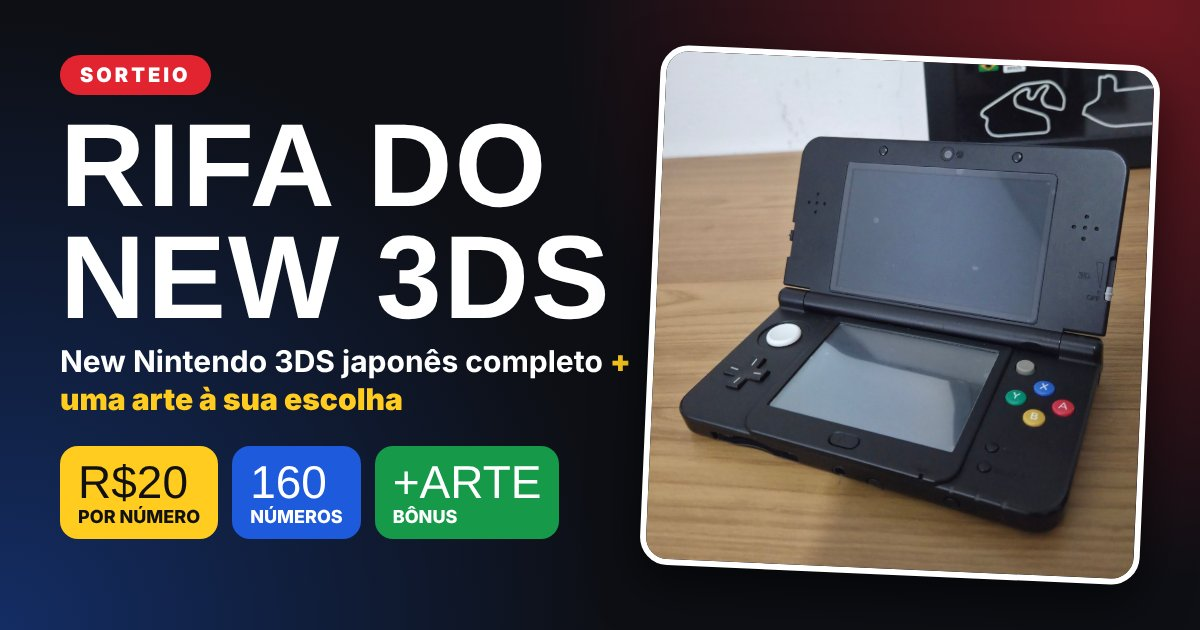
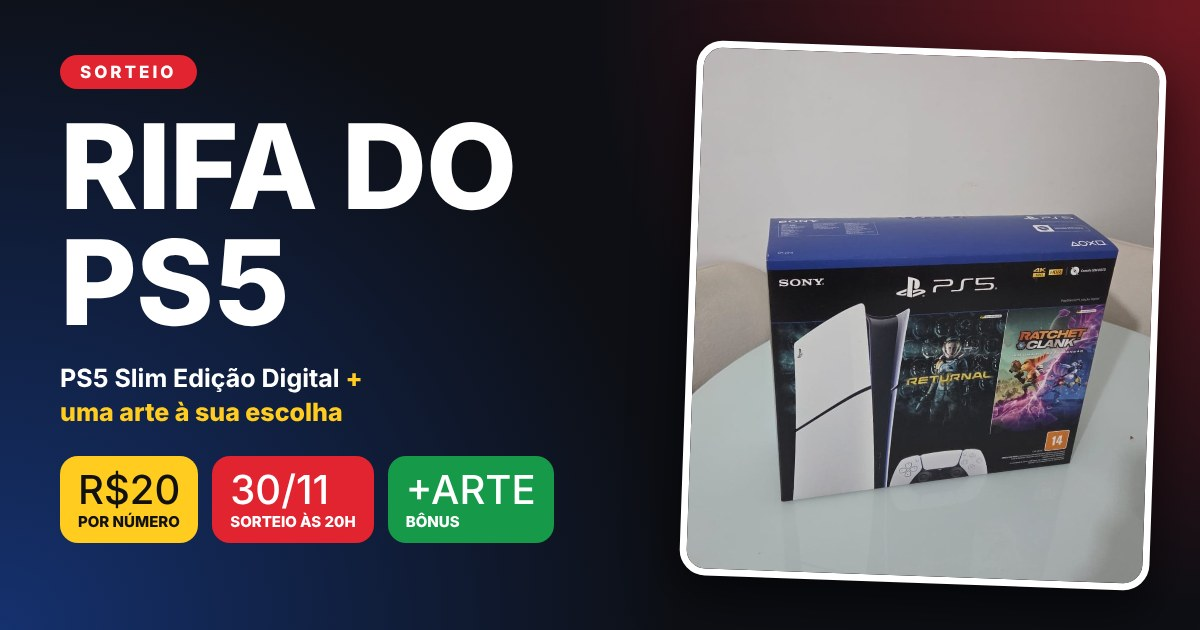
Troca o prêmio da rifa para PS5 Slim Edição Digital
Atualiza título, descrição e imagem de prévia do link, foto e textos do site.

Claude-Session: https://claude.ai/code/session_01CmqXNaatHckYqDa1Qydv76

diff --git a/index.html b/index.html
@@ -1,13 +1,13 @@
 <!DOCTYPE html>
 <html lang="pt-BR"><head>
 <meta charset="utf-8"><meta name="viewport" content="width=device-width,initial-scale=1">
-<title>Rifa do New Nintendo 3DS · R$20 por número</title>
-<meta name="description" content="Concorra a um New Nintendo 3DS japonês completo + uma arte à sua escolha. R$20 por número, 160 números.">
+<title>Rifa do PS5 · R$20 por número</title>
+<meta name="description" content="Concorra a um PS5 Slim Edição Digital + uma arte à sua escolha. R$20 por número. Sorteio 30/11 às 20h.">
 <meta property="og:type" content="website">
 <meta property="og:url" content="https://rifanew3ds.github.io/rifa-new3ds/">
-<meta property="og:title" content="Rifa do New Nintendo 3DS · R$20 por número">
-<meta property="og:description" content="New 3DS japonês completo + uma arte à sua escolha. 160 números. Escolha o seu!">
-<meta property="og:image" content="https://rifanew3ds.github.io/rifa-new3ds/preview.jpg">
+<meta property="og:title" content="Rifa do PS5 · R$20 por número">
+<meta property="og:description" content="PS5 Slim Edição Digital + uma arte à sua escolha. Sorteio 30/11 às 20h. Escolha o seu número!">
+<meta property="og:image" content="https://rifanew3ds.github.io/rifa-new3ds/preview.jpg?v=ps5">
 <meta property="og:image:width" content="1200"><meta property="og:image:height" content="630">
 <meta property="og:locale" content="pt_BR">
 <meta name="twitter:card" content="summary_large_image">
@@ -87,8 +87,8 @@ footer{padding:30px 0 50px;color:var(--muted);font-size:13px;text-align:center;b
 <header class="hero"><div class="wrap">
  <div>
   <span class="tag">SORTEIO</span>
-  <h1 class="display">RIFA DO<br>NEW 3DS</h1>
-  <p class="lead">Concorra a um <b>New Nintendo 3DS japonês preto</b> e ganhe também <b>uma arte de um dos artistas participantes, à sua escolha</b>.</p>
+  <h1 class="display">RIFA DO<br>PS5</h1>
+  <p class="lead">Concorra a um <b>PS5 Slim Edição Digital com controle DualSense</b> e ganhe também <b>uma arte de um dos artistas participantes, à sua escolha</b>.</p>
   <div class="stats">
    <div class="stat" style="background:var(--yellow);color:#111"><strong>R$20</strong><span>POR NÚMERO</span></div>
    <div class="stat" style="background:var(--blue)"><strong id="livres">160</strong><span>NÚMEROS LIVRES</span></div>
@@ -98,7 +98,7 @@ footer{padding:30px 0 50px;color:var(--muted);font-size:13px;text-align:center;b
   <a class="btn" id="grupoBtn" href="#" target="_blank" rel="noopener">✈ Entrar no canal da rifa no Telegram</a>
  </div>
  <div>
-  <div class="photo"><img alt="New Nintendo 3DS preto" src="img/3ds.jpg"></div>
+  <div class="photo"><img alt="PS5 Slim Edição Digital na caixa" src="img/ps5.jpg"></div>
   <ul class="inc">
    <li>Modelo compacto, faceplates trocáveis</li><li>Caixa original, serial batendo</li>
    <li>Todos os manuais e AR Cards</li><li>Carregador</li>
@@ -135,7 +135,7 @@ footer{padding:30px 0 50px;color:var(--muted);font-size:13px;text-align:center;b
 </div></section>
 
 <div id="lb" style="display:none;position:fixed;inset:0;background:rgba(0,0,0,.88);z-index:50;align-items:center;justify-content:center;padding:20px;cursor:zoom-out"><img id="lbImg" alt="" style="max-width:100%;max-height:100%;border-radius:12px"></div>
-<footer>Rifa do New Nintendo 3DS · 160 números · R$20 cada · Resultado divulgado no canal do Telegram</footer>
+<footer>Rifa do PS5 · 160 números · R$20 cada · Resultado divulgado no canal do Telegram</footer>
 
 <script>
 /* ======== EDITE AQUI ======== */
@@ -226,7 +226,7 @@ CONFIG.artistas.forEach((a, idx) => {
     ev.preventDefault();
     if (!sel.size) { msg.className = "msg err"; msg.innerHTML = 'Escolha pelo menos um número na <a href="#numeros">tabela</a>.'; return; }
     const f = new FormData(form);
-    const texto = `Olá! Quero participar da rifa do New 3DS.
+    const texto = `Olá! Quero participar da rifa do PS5.
 Meu Telegram: @${String(f.get("contato")).trim().replace(/^@+/, "")}
 Números: ${fmt()}
 Total: R$${sel.size*PRECO}
